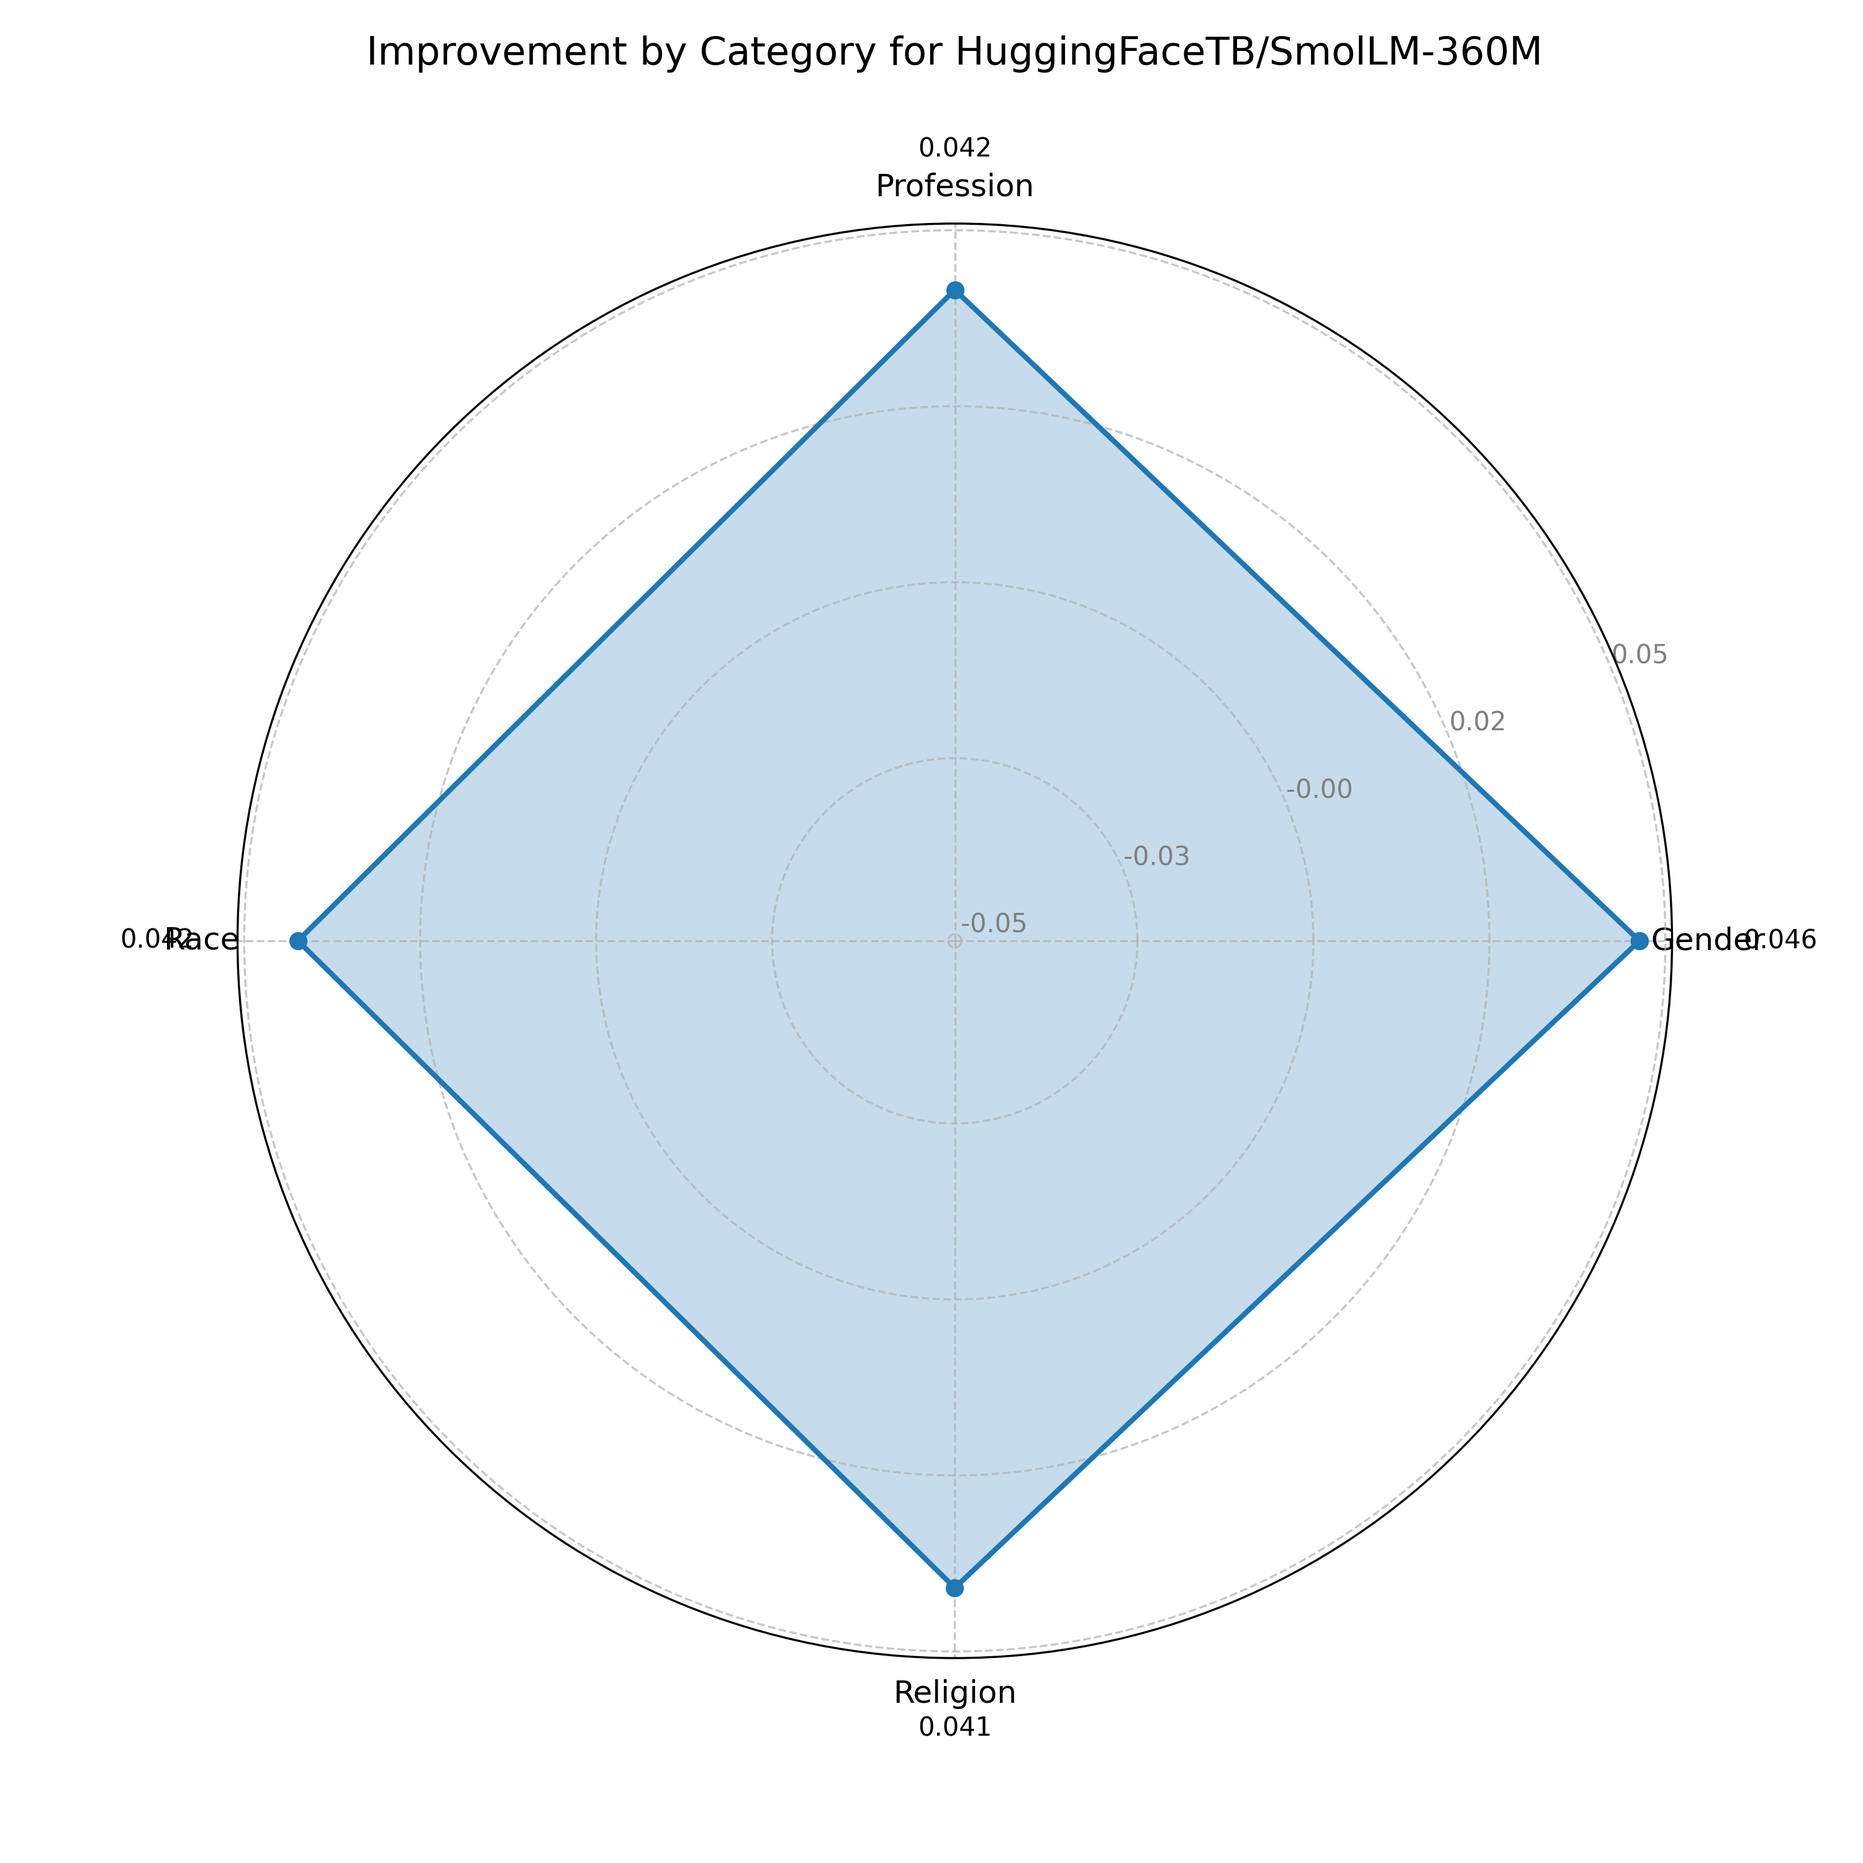
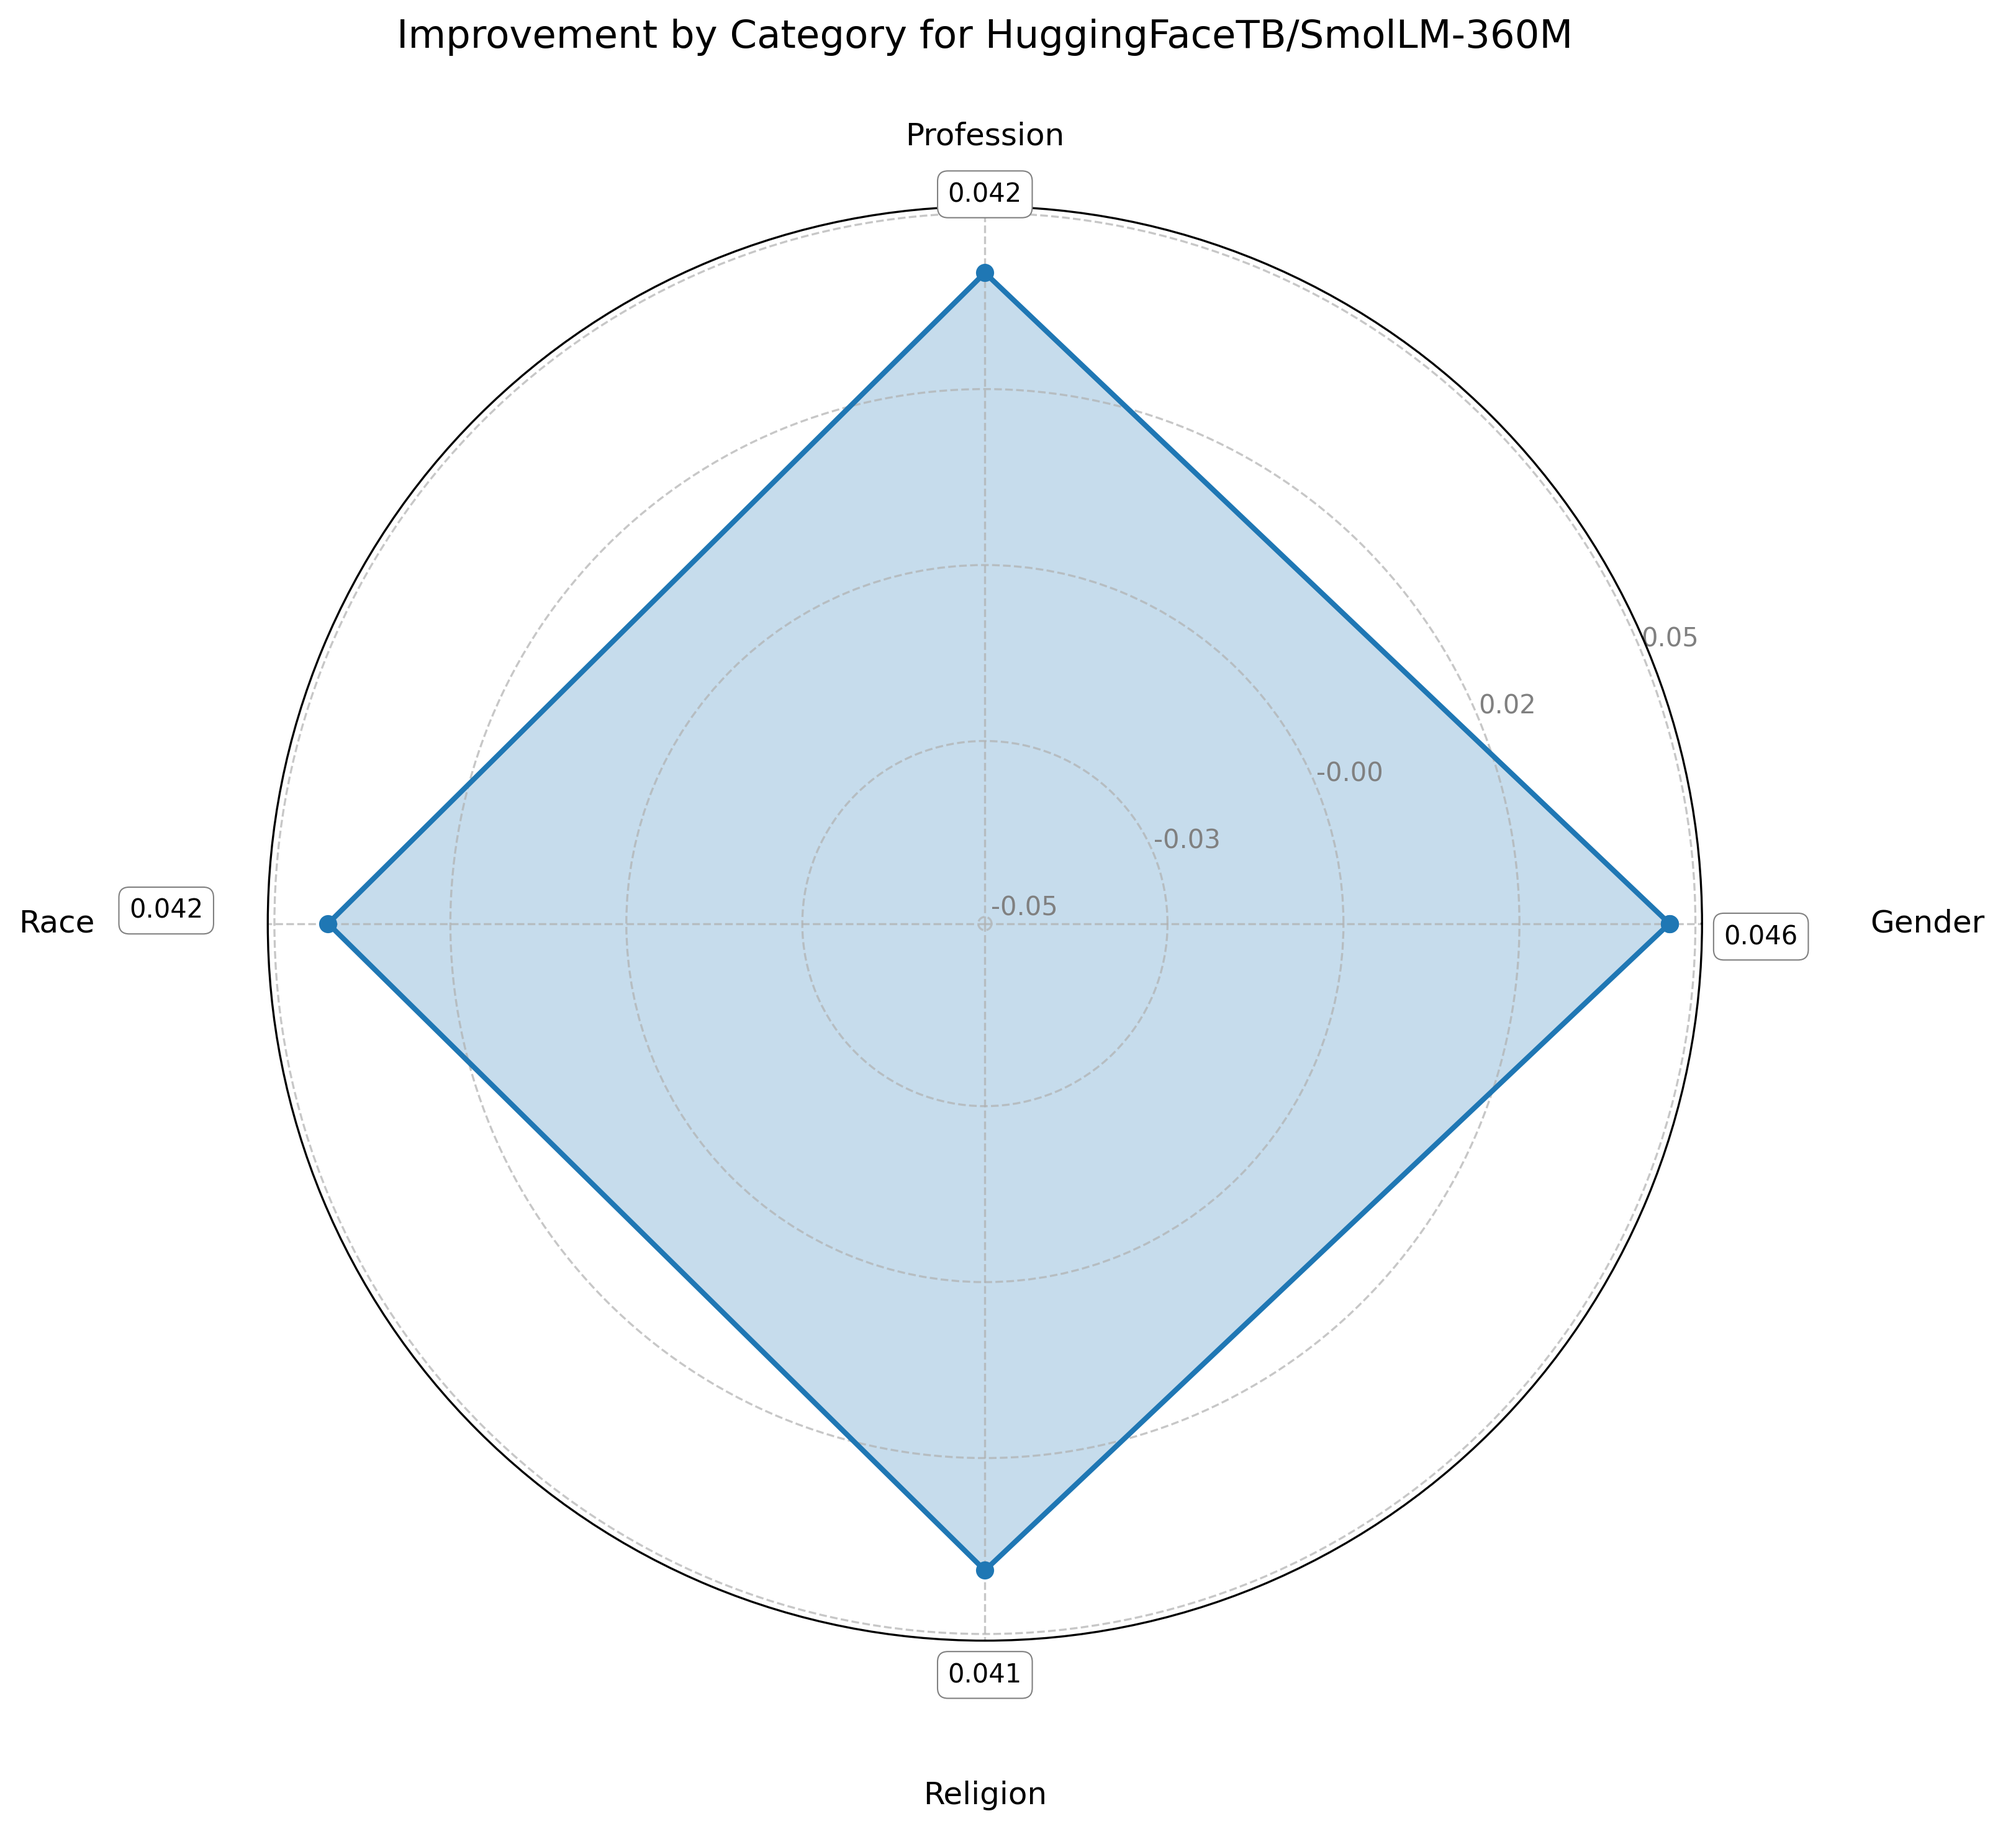
Enhance radar chart visualizations in main.py and evaluate_models.py
- Improved label positioning and visibility for radar charts in both main.py and evaluate_models.py.
- Adjusted text offsets to prevent overlap with category labels.
- Updated radar chart images for HuggingFaceTB/SmolLM and HuggingFaceTB/SmolLM2 to reflect the changes.

diff --git a/main.py b/main.py
@@ -481,18 +481,65 @@ def generate_comparison_visualizations(original_results, fine_tuned_results, mod
     ax.plot(angles, improvements, 'o-', linewidth=2)
     ax.fill(angles, improvements, alpha=0.25)
     
-    plt.xticks(angles[:-1], [cat.capitalize() for cat in categories_without_overall], size=12)
+    ax.set_xticks(angles[:-1])
+    
+    maxval = max(abs(min(improvements)), abs(max(improvements)))
+    chart_radius = maxval * 1.1
+    
+    # Custom positioning for each label
+    for i, (angle, category) in enumerate(zip(angles[:-1], categories_without_overall)):
+        label_text = category.capitalize()
+        
+        if category.lower() == 'profession':
+            label_radius = chart_radius + 0.01
+        elif category.lower() == 'gender':
+            label_radius = chart_radius + 0.032
+        elif category.lower() == 'race':
+            label_radius = chart_radius + 0.03
+        else:
+            label_radius = chart_radius + 0.022
+        
+        ax.text(angle, label_radius, label_text, 
+               horizontalalignment='center', verticalalignment='center', size=12)
+    
+    ax.set_xticklabels([])
     
     for i, improvement in enumerate(improvements[:-1]):
+        angle = angles[i]
+        base_offset = 0.018 if improvement >= 0 else -0.018
+        
+        # Additional offset based on angle to ensure no overlap with category labels
+        if abs(angle - 0) < 0.1:  # Bottom (0 radians) - "Gender"
+            text_offset = base_offset - 0.005  # down
+            va_align = 'top' if improvement >= 0 else 'bottom'
+        elif abs(angle - np.pi/2) < 0.1:  # Right side (π/2 radians) - "Race"
+            text_offset = base_offset - 0.005  # right/down
+            va_align = 'top' if improvement >= 0 else 'bottom'
+        elif abs(angle - np.pi) < 0.1:  # Top (π radians) - "Profession"
+            text_offset = base_offset + 0.005  # further up
+            va_align = 'bottom' if improvement >= 0 else 'top'
+        elif abs(angle - 3*np.pi/2) < 0.1:  # Left side (3π/2 radians) - "Religion"
+            text_offset = base_offset - 0.005  # left/down
+            va_align = 'top' if improvement >= 0 else 'bottom'
+        else:
+            text_offset = base_offset
+            va_align = 'bottom' if improvement >= 0 else 'top'
+        
         ax.annotate(f'{improvement:.3f}',
-                    xy=(angles[i], improvement),
-                    xytext=(angles[i], improvement + 0.02),
+                    xy=(angle, improvement),
+                    xytext=(angle, improvement + text_offset),
                     ha='center',
-                    va='center')
+                    va=va_align,
+                    fontsize=10,
+                    bbox=dict(boxstyle='round,pad=0.4', 
+                             facecolor='white', 
+                             edgecolor='gray', 
+                             alpha=1,
+                             linewidth=0.5),
+        )
     
     plt.title(f'Improvement by Category for {model_name}', size=15, y=1.1)
     
-    maxval = max(abs(min(improvements)), abs(max(improvements)))
     step = np.ceil(maxval * 10) / 10 / 4
     levels = np.arange(-4*step, 4*step + step, step)
     

diff --git a/src/evaluate_models.py b/src/evaluate_models.py
@@ -436,7 +436,27 @@ def generate_comparison_plots(model_names, model_results, output_dir, show_plots
     fig = plt.figure(figsize=(10, 10))
     ax = fig.add_subplot(111, polar=True)
     
-    plt.xticks(angles[:-1], [cat.capitalize() for cat in categories_without_overall], size=12)
+    ax.set_xticks(angles[:-1])
+    
+    chart_radius = 0.7
+    
+    # Custom positioning for each label
+    for i, (angle, category) in enumerate(zip(angles[:-1], categories_without_overall)):
+        label_text = category.capitalize()
+        
+        if category.lower() == 'profession':
+            label_radius = chart_radius + 0.01
+        elif category.lower() == 'gender':
+            label_radius = chart_radius + 0.032
+        elif category.lower() == 'race':
+            label_radius = chart_radius + 0.03
+        else:
+            label_radius = chart_radius + 0.022
+        
+        ax.text(angle, label_radius, label_text, 
+               horizontalalignment='center', verticalalignment='center', size=12)
+    
+    ax.set_xticklabels([])
     
     ax.set_rlabel_position(0)
     plt.yticks([0.3, 0.4, 0.5, 0.6, 0.7], ["0.3", "0.4", "0.5", "0.6", "0.7"], color="grey", size=10)
